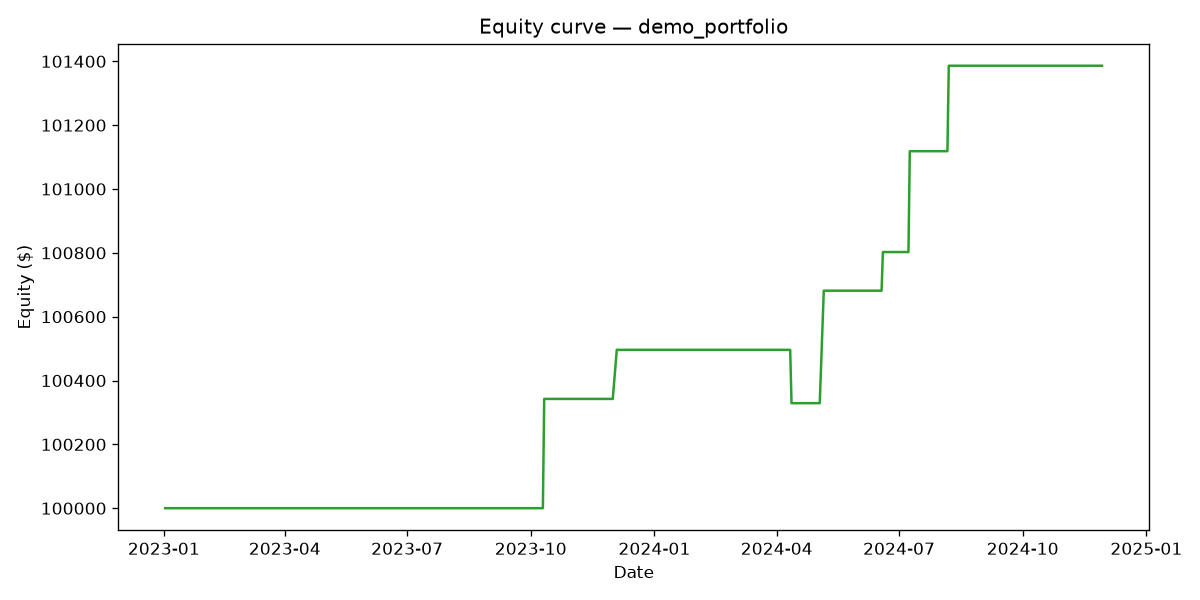
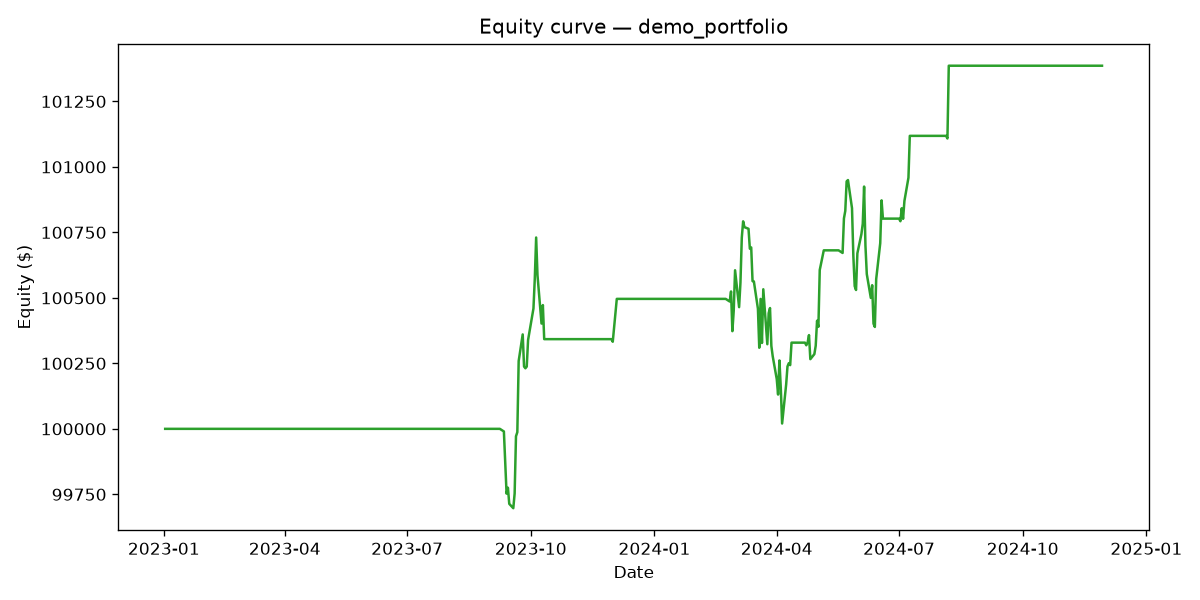
Add mark-to-market equity curve and FDR correction for the screen
Equity curve now marks open positions to market daily (with end-of-sample
forced liquidation) instead of only moving on trade close, giving an honest
drawdown picture. screen_universe() gained an opt-in Benjamini-Hochberg
multiple-testing correction; run_screen.py enables it by default and reports
both the raw and FDR-corrected pair counts. 27/27 tests green.

diff --git a/backtest/simulator.py b/backtest/simulator.py
@@ -1,10 +1,12 @@
 """Portfolio-level backtest simulator for a set of candidate cointegrated pairs.
 
-Equity curve reflects realized P&L at each trade's close (not daily
-mark-to-market of open positions) — a documented simplification. Position
-sizing is dollar-neutral per leg (capital_per_pair split evenly between the
-two legs), not hedge-ratio-weighted dollar sizing — also documented in the
-project README as a v1 simplification.
+Equity curve is daily mark-to-market: realized P&L from closed trades plus the
+unrealized gain/loss on any currently open positions, valued at that day's
+prices. Any position still open at the end of the sample is force-liquidated
+at the final date's price (logged with exit_reason="END_OF_SAMPLE") so total
+return is always fully realized. Position sizing is dollar-neutral per leg
+(capital_per_pair split evenly between the two legs), not hedge-ratio-weighted
+dollar sizing — documented in the project README as a v1 simplification.
 """
 
 from __future__ import annotations
@@ -187,7 +189,41 @@ class PairBacktester:
                     position = 1 if row["event"] == "ENTER_LONG_SPREAD" else -1
                     open_positions[pair_key] = self._open_position(pair_key, position, date, price_a, price_b)
 
-            equity_curve.loc[date] = config.initial_capital + realized_pnl
+            unrealized_pnl = 0.0
+            for pair_key, open_pos in open_positions.items():
+                pair_data = prepared[pair_key]
+                if date not in pair_data["prices"].index:
+                    continue
+                price_a = pair_data["prices"].loc[date, pair_key[0]]
+                price_b = pair_data["prices"].loc[date, pair_key[1]]
+                unrealized_pnl += self._mark_to_market(open_pos, price_a, price_b)
+
+            equity_curve.loc[date] = config.initial_capital + realized_pnl + unrealized_pnl
+
+        if open_positions:
+            last_date = all_dates[-1]
+            for pair_key, open_pos in list(open_positions.items()):
+                pair_data = prepared[pair_key]
+                if last_date not in pair_data["prices"].index:
+                    continue
+                price_a = pair_data["prices"].loc[last_date, pair_key[0]]
+                price_b = pair_data["prices"].loc[last_date, pair_key[1]]
+                pnl = self._close_position(open_pos, price_a, price_b)
+                realized_pnl += pnl
+                trade_log_rows.append(
+                    {
+                        "ticker_a": pair_key[0],
+                        "ticker_b": pair_key[1],
+                        "position": open_pos.position,
+                        "entry_date": open_pos.entry_date,
+                        "exit_date": last_date,
+                        "holding_days": (last_date - open_pos.entry_date).days,
+                        "pnl": pnl,
+                        "exit_reason": "END_OF_SAMPLE",
+                    }
+                )
+            open_positions.clear()
+            equity_curve.loc[last_date] = config.initial_capital + realized_pnl
 
         trade_log = pd.DataFrame(trade_log_rows)
         return {
@@ -215,19 +251,25 @@ class PairBacktester:
             entry_cost=entry_cost,
         )
 
-    def _close_position(self, open_pos: _OpenPosition, exit_price_a: float, exit_price_b: float) -> float:
-        config = self.config
+    def _mark_to_market(self, open_pos: _OpenPosition, price_a: float, price_b: float) -> float:
+        """Unrealized P&L if `open_pos` were valued at (price_a, price_b) right now:
+        gross gain/loss on both legs minus the entry cost already paid. Exit cost
+        is not deducted here — it's only realized when the position actually closes.
+        """
         if open_pos.position == 1:  # long A, short B
-            gross_pnl = open_pos.shares_a * (exit_price_a - open_pos.entry_price_a) + open_pos.shares_b * (
-                open_pos.entry_price_b - exit_price_b
+            gross_pnl = open_pos.shares_a * (price_a - open_pos.entry_price_a) + open_pos.shares_b * (
+                open_pos.entry_price_b - price_b
             )
         else:  # short A, long B
-            gross_pnl = open_pos.shares_a * (open_pos.entry_price_a - exit_price_a) + open_pos.shares_b * (
-                exit_price_b - open_pos.entry_price_b
+            gross_pnl = open_pos.shares_a * (open_pos.entry_price_a - price_a) + open_pos.shares_b * (
+                price_b - open_pos.entry_price_b
             )
+        return gross_pnl - open_pos.entry_cost
 
+    def _close_position(self, open_pos: _OpenPosition, exit_price_a: float, exit_price_b: float) -> float:
+        config = self.config
+        unrealized = self._mark_to_market(open_pos, exit_price_a, exit_price_b)
         notional_exit = open_pos.shares_a * exit_price_a + open_pos.shares_b * exit_price_b
         cost_rate = (config.transaction_cost_bps + config.slippage_bps) / 10_000
         exit_cost = cost_rate * notional_exit
-
-        return gross_pnl - open_pos.entry_cost - exit_cost
+        return unrealized - exit_cost

diff --git a/tests/test_backtest_simulator.py b/tests/test_backtest_simulator.py
@@ -42,6 +42,62 @@ def test_close_position_short_spread_pnl_zero_costs():
     assert pnl > 0  # A fell, B rose — favorable for a short-spread position
 
 
+def test_mark_to_market_matches_close_minus_exit_cost():
+    config = PairBacktestConfig(transaction_cost_bps=8.0, slippage_bps=2.0, capital_per_pair=10_000.0)
+    backtester = PairBacktester(config)
+    open_pos = backtester._open_position(
+        ("A", "B"), position=1, date=pd.Timestamp("2023-01-02"), price_a=100.0, price_b=50.0
+    )
+
+    unrealized = backtester._mark_to_market(open_pos, price_a=105.0, price_b=48.0)
+    closed_pnl = backtester._close_position(open_pos, exit_price_a=105.0, exit_price_b=48.0)
+
+    notional_exit = open_pos.shares_a * 105.0 + open_pos.shares_b * 48.0
+    exit_cost = ((config.transaction_cost_bps + config.slippage_bps) / 10_000) * notional_exit
+
+    assert unrealized > 0  # A rose, B fell — favorable mark for a long-spread position
+    assert closed_pnl == pytest.approx(unrealized - exit_cost)
+
+
+def test_open_position_still_open_at_data_end_is_force_liquidated(cointegrated_pair_prices):
+    price_a, price_b, _hedge_ratio_true, _theta = cointegrated_pair_prices
+
+    # First pass over the full series to find a date where a position is open.
+    config = PairBacktestConfig(
+        recheck_window_days=100,
+        recheck_freq_days=50,
+        signal_config=SignalConfig(zscore_window=15, entry_z=1.0, exit_z=0.3, stop_z=4.0),
+        max_concurrent_pairs=1,
+    )
+    panel = pd.concat([price_a.rename("A"), price_b.rename("B")], axis=1)
+    full_result = PairBacktester(config).run(panel, [("A", "B")])
+    assert not full_result["trade_log"].empty
+
+    # Find a trade that was held for more than one bar, so there's an interior
+    # date strictly between entry and exit to truncate the series at.
+    trade_log = full_result["trade_log"]
+    entry_idx = trade_log["entry_date"].map(panel.index.get_loc)
+    exit_idx = trade_log["exit_date"].map(panel.index.get_loc)
+    multi_bar_trades = trade_log[(exit_idx - entry_idx) >= 2]
+    assert not multi_bar_trades.empty, "expected at least one trade held for 2+ bars"
+    first_multi_bar_trade = multi_bar_trades.iloc[0]
+    truncate_at_idx = panel.index.get_loc(first_multi_bar_trade["entry_date"]) + 1  # one bar into the trade
+
+    # Truncate the data so the series ends while that trade is still open, then
+    # confirm the truncated run force-closes it instead of leaving it dangling.
+    truncated_panel = panel.iloc[: truncate_at_idx + 1]
+    truncated_result = PairBacktester(config).run(truncated_panel, [("A", "B")])
+
+    assert not truncated_result["trade_log"].empty
+    last_trade = truncated_result["trade_log"].iloc[-1]
+    assert last_trade["exit_date"] == truncated_panel.index[-1]
+    assert last_trade["exit_reason"] == "END_OF_SAMPLE"
+
+    final_equity = truncated_result["equity_curve"].iloc[-1]
+    total_pnl = truncated_result["trade_log"]["pnl"].sum()
+    assert final_equity == pytest.approx(config.initial_capital + total_pnl)
+
+
 def test_regime_hedge_ratio_disables_after_cointegration_breaks_down():
     dates = pd.bdate_range("2023-01-02", periods=400)
     n = len(dates)

diff --git a/tests/test_cointegration.py b/tests/test_cointegration.py
@@ -1,8 +1,9 @@
 import numpy as np
+import pandas as pd
 import pytest
 from statsmodels.tsa.stattools import coint
 
-from screening.cointegration import compute_half_life
+from screening.cointegration import _benjamini_hochberg, compute_half_life, screen_universe
 from screening.cointegration import test_pair_cointegration as engle_granger_test
 
 
@@ -46,3 +47,44 @@ def test_agrees_with_statsmodels_coint(cointegrated_pair_prices):
     result = engle_granger_test(price_a, price_b)
 
     assert (pvalue < 0.05) == result.is_cointegrated
+
+
+def test_benjamini_hochberg_flags_only_pvalues_surviving_correction():
+    # Standard textbook example: at fdr_level=0.05 over n=8 hypotheses, only
+    # the two smallest p-values (rank 1: 0.001, rank 2: 0.01) survive — rank 3's
+    # p=0.02 exceeds its threshold (3/8)*0.05=0.01875, and no larger rank passes.
+    pvalues = pd.Series([0.001, 0.01, 0.02, 0.03, 0.04, 0.06, 0.5, 0.7])
+    significant = _benjamini_hochberg(pvalues, fdr_level=0.05)
+
+    assert significant.tolist() == [True, True, False, False, False, False, False, False]
+
+
+def test_benjamini_hochberg_flags_nothing_when_all_pvalues_fail():
+    pvalues = pd.Series([0.2, 0.3, 0.4, 0.5])
+    significant = _benjamini_hochberg(pvalues, fdr_level=0.05)
+
+    assert not significant.any()
+
+
+def test_screen_universe_multiple_testing_correction_is_opt_in_and_never_loosens_tradeable(
+    sector_universe_fixture,
+):
+    panel, (ticker_a, ticker_b) = sector_universe_fixture
+    pairs = [(ticker_a, ticker_b), ("CCC", "DDD"), ("AAA", "CCC"), ("BBB", "DDD")]
+
+    uncorrected = screen_universe(panel, pairs, min_half_life_days=1.0, max_half_life_days=60.0)
+    corrected = screen_universe(
+        panel,
+        pairs,
+        min_half_life_days=1.0,
+        max_half_life_days=60.0,
+        apply_multiple_testing_correction=True,
+    )
+
+    assert uncorrected["bh_significant"].isna().all()  # not computed unless opted in
+    assert corrected["bh_significant"].dtype == bool
+    # BH correction can only remove tradeable pairs relative to the uncorrected
+    # screen, never add ones that weren't already tradeable pre-correction.
+    tradeable_pairs_corrected = set(zip(corrected.loc[corrected["tradeable"], "ticker_a"], corrected.loc[corrected["tradeable"], "ticker_b"]))
+    tradeable_pairs_uncorrected = set(zip(uncorrected.loc[uncorrected["tradeable"], "ticker_a"], uncorrected.loc[uncorrected["tradeable"], "ticker_b"]))
+    assert tradeable_pairs_corrected <= tradeable_pairs_uncorrected

diff --git a/screening/cointegration.py b/screening/cointegration.py
@@ -96,6 +96,25 @@ def compute_half_life(spread: pd.Series) -> float | None:
     return float(np.log(2) / -slope)
 
 
+def _benjamini_hochberg(pvalues: pd.Series, fdr_level: float) -> pd.Series:
+    """Benjamini-Hochberg FDR procedure: find the largest rank k (p-values
+    sorted ascending) with p_(k) <= (k/n)*fdr_level, then flag ranks 1..k as
+    significant. Returns a boolean Series aligned to `pvalues`'s index.
+    """
+    n = len(pvalues)
+    order = pvalues.sort_values().index
+    ranks = np.arange(1, n + 1)
+    thresholds = (ranks / n) * fdr_level
+    sorted_pvalues = pvalues.loc[order].to_numpy()
+    passes = sorted_pvalues <= thresholds
+
+    significant = pd.Series(False, index=pvalues.index)
+    if passes.any():
+        cutoff_rank = int(np.max(np.where(passes)[0])) + 1
+        significant.loc[order[:cutoff_rank]] = True
+    return significant
+
+
 def screen_universe(
     price_panel: pd.DataFrame,
     pairs: list[tuple[str, str]],
@@ -103,6 +122,8 @@ def screen_universe(
     use_log_prices: bool = True,
     min_half_life_days: float = DEFAULT_MIN_HALF_LIFE_DAYS,
     max_half_life_days: float = DEFAULT_MAX_HALF_LIFE_DAYS,
+    apply_multiple_testing_correction: bool = False,
+    fdr_level: float = DEFAULT_SIGNIFICANCE,
 ) -> pd.DataFrame:
     """Test every candidate pair for cointegration and flag those in a tradeable half-life band.
 
@@ -110,6 +131,14 @@ def screen_universe(
     that fail cointegration or the half-life filter are included and flagged
     (is_cointegrated / passes_half_life_filter / tradeable columns) rather than
     silently dropped, so the screen is auditable end to end.
+
+    Screening many pairs at a fixed significance level guarantees some false
+    positives by chance (e.g. ~5 expected out of 100 pairs at p<0.05). Set
+    apply_multiple_testing_correction=True to additionally require each pair's
+    ADF p-value survive a Benjamini-Hochberg false-discovery-rate correction
+    across all pairs tested (adds a `bh_significant` column; `tradeable` then
+    requires both is_cointegrated, the half-life filter, AND bh_significant).
+    Off by default to preserve v1 behavior.
     """
     rows = []
     for ticker_a, ticker_b in pairs:
@@ -150,4 +179,11 @@ def screen_universe(
     results = pd.DataFrame(rows)
     if results.empty:
         return results
+
+    if apply_multiple_testing_correction:
+        results["bh_significant"] = _benjamini_hochberg(results["adf_pvalue"], fdr_level)
+        results["tradeable"] = results["tradeable"] & results["bh_significant"]
+    else:
+        results["bh_significant"] = None
+
     return results.sort_values("adf_pvalue", ascending=True).reset_index(drop=True)

diff --git a/run_screen.py b/run_screen.py
@@ -42,14 +42,27 @@ def main() -> None:
     print(f"  {prices.shape[1]} tickers, {prices.shape[0]} trading days retained")
 
     print(f"\n[2/4] Screening {len(pairs)} candidate pairs for cointegration")
-    results = screen_universe(prices, pairs)
-    tradeable = results[results["tradeable"]]
-    print(f"  {len(tradeable)}/{len(results)} pairs pass the cointegration + half-life filter")
+    results = screen_universe(prices, pairs, apply_multiple_testing_correction=True)
+    passes_screen = results[results["is_cointegrated"] & results["passes_half_life_filter"]]
+    n_bh_survivors = int(results["bh_significant"].sum())
+    print(
+        f"  {len(passes_screen)}/{len(results)} pairs pass cointegration + half-life at p<0.05; "
+        f"only {n_bh_survivors} additionally survive Benjamini-Hochberg FDR correction across "
+        f"all {len(results)} pairs tested"
+    )
+    if n_bh_survivors == 0 and len(passes_screen) > 0:
+        print(
+            "  NOTE: none of the raw hits are strong enough to survive multiple-testing "
+            "correction - treat them as leads to investigate further, not confirmed edges."
+        )
     print(results.head(15).to_string(index=False))
     heatmap_path = plot_cointegration_heatmap(results.head(20), title="live_cointegration_pvalues")
     print(f"  saved {heatmap_path}")
 
-    top_pairs = list(zip(tradeable["ticker_a"], tradeable["ticker_b"]))[:TOP_N_TO_BACKTEST]
+    # Backtest/report on the pre-correction survivors (ranked by ADF p-value, the
+    # strongest raw evidence first) — the FDR-corrected count above is the honest
+    # caveat on how much to trust them, not a gate on what gets demonstrated here.
+    top_pairs = list(zip(passes_screen["ticker_a"], passes_screen["ticker_b"]))[:TOP_N_TO_BACKTEST]
 
     print(f"\n[3/4] Backtesting top {TOP_N_TO_BACKTEST} surviving pairs")
     if not top_pairs:
@@ -74,7 +87,7 @@ def main() -> None:
             print(f"  saved {spread_plot}")
 
     print("\n[4/4] Today's signal report")
-    report_pairs = top_pairs or list(zip(tradeable["ticker_a"], tradeable["ticker_b"]))[:TOP_N_TO_BACKTEST]
+    report_pairs = top_pairs or list(zip(passes_screen["ticker_a"], passes_screen["ticker_b"]))[:TOP_N_TO_BACKTEST]
     if report_pairs:
         report = generate_daily_signal_report(report_pairs, signal_config=SignalConfig())
         print_report(report)

diff --git a/README.md b/README.md
@@ -70,14 +70,28 @@ py -m pytest
   normally.
 - Position sizing is **dollar-neutral per leg** (`capital_per_pair` split
   evenly, e.g. $5k long / $5k short), not hedge-ratio-weighted dollar sizing.
-- The equity curve reflects **realized P&L at each trade's close**, not daily
-  mark-to-market of open positions.
+- The equity curve is **daily mark-to-market**: realized P&L from closed
+  trades plus the unrealized gain/loss on any currently open position, valued
+  at that day's prices. Any position still open at the end of the backtest
+  window is force-liquidated at the final date's price (logged with
+  `exit_reason="END_OF_SAMPLE"`) so total return is always fully realized.
+- `screening.cointegration.screen_universe(..., apply_multiple_testing_correction=True)`
+  additionally requires each pair's ADF p-value survive a Benjamini-Hochberg
+  false-discovery-rate correction across every pair tested (adds a
+  `bh_significant` column). Off by default for the library function; enabled
+  by default in `run_screen.py`, which reports both the raw count and the
+  FDR-corrected count so the caveat is visible without silently gating the
+  demo to zero output when nothing survives correction.
 
 ## Known limitations
 
-- **Multiple-hypothesis testing**: screening ~60-250 pairs at p < 0.05 implies
-  several expected false positives by chance alone; not corrected for (no
-  Bonferroni/Benjamini-Hochberg adjustment) in v1.
+- **Multiple-hypothesis testing**: with `apply_multiple_testing_correction`
+  off (the library default), several expected false positives by chance alone
+  are not corrected for. Turn the flag on for a stricter, FDR-controlled read
+  — in practice, on a ~60-pair screen this can (and did, in an actual live
+  run) flag *zero* survivors even when several pairs pass the raw p<0.05
+  threshold, which is the honest result of testing many hypotheses at once,
+  not a bug.
 - **Survivorship bias**: the default universe is currently-listed, liquid
   tickers only.
 - **Static per-regime hedge ratio**: the hedge ratio is re-estimated